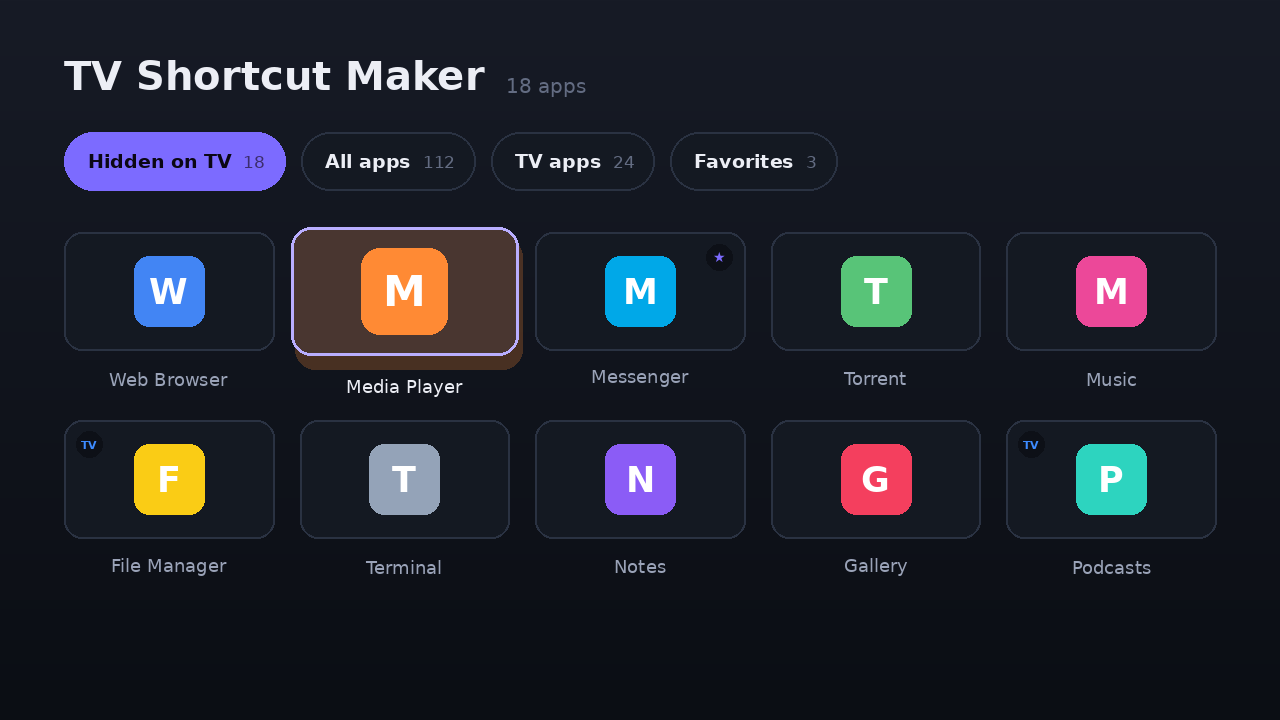
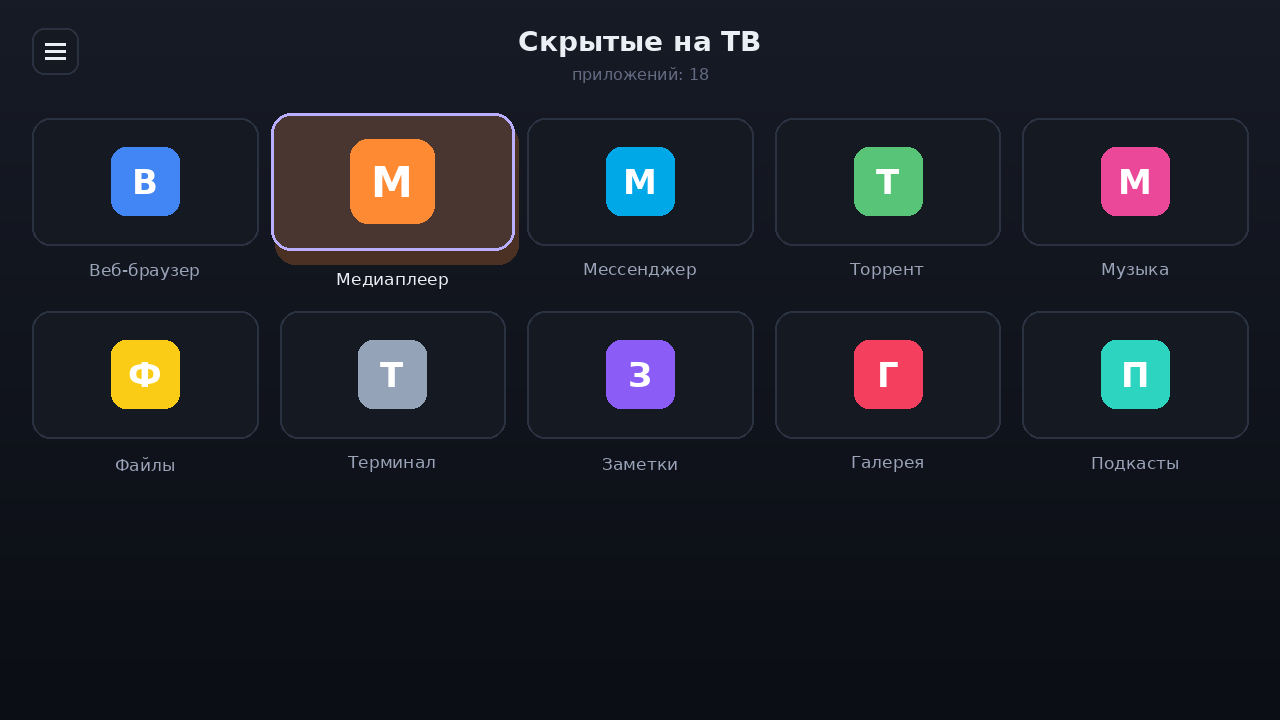
Add files via upload

diff --git a/README.md b/README.md
@@ -48,11 +48,12 @@
 
 ## 📸 Скриншоты
 
-> Замените заглушки реальными снимками: `adb exec-out screencap -p > shot.png`
+> Макеты интерфейса. Реальные снимки снимаются командой
+> `adb exec-out screencap -p > shot.png`
 
-| Сетка приложений | Панель сведений | Иконка ярлыка |
+| Главный экран | Шторка меню | Иконка ярлыка |
 |---|---|---|
-| ![Сетка](docs/screenshots/screen1.png) | ![Сведения](docs/screenshots/screen2.png) | ![Иконка](docs/screenshots/screen3.png) |
+| ![Главный экран](docs/screenshots/screen1.png) | ![Меню](docs/screenshots/screen2.png) | ![Иконка](docs/screenshots/screen3.png) |
 
 ## 🏗 Архитектура
 

diff --git a/README.en.md b/README.en.md
@@ -47,11 +47,11 @@ It also works as a fast, good-looking app drawer on its own.
 
 ## 📸 Screenshots
 
-> Replace these placeholders with real captures (`adb exec-out screencap -p > shot.png`).
+> UI mockups. Real captures: `adb exec-out screencap -p > shot.png`
 
-| App grid | Detail panel | Shortcut icon |
+| Home screen | Navigation drawer | Shortcut icon |
 |---|---|---|
-| ![Grid](docs/screenshots/screen1.png) | ![Detail](docs/screenshots/screen2.png) | ![Icon](docs/screenshots/screen3.png) |
+| ![Home](docs/screenshots/screen1.png) | ![Drawer](docs/screenshots/screen2.png) | ![Icon](docs/screenshots/screen3.png) |
 
 ## 🏗 Architecture
 
